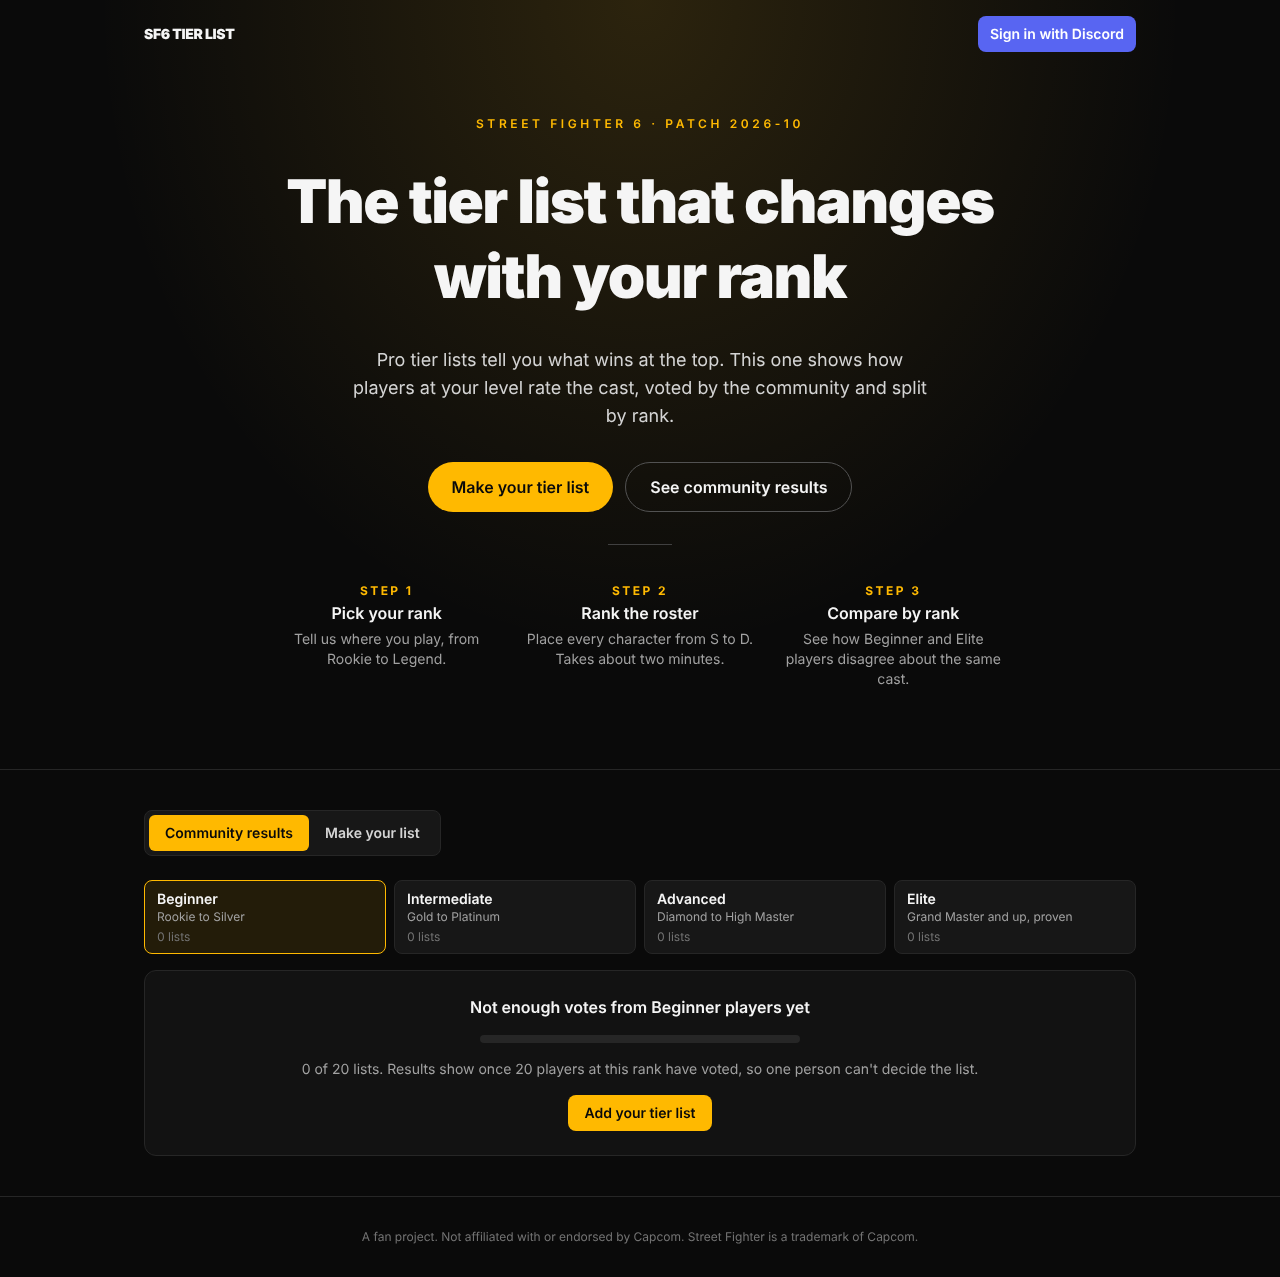
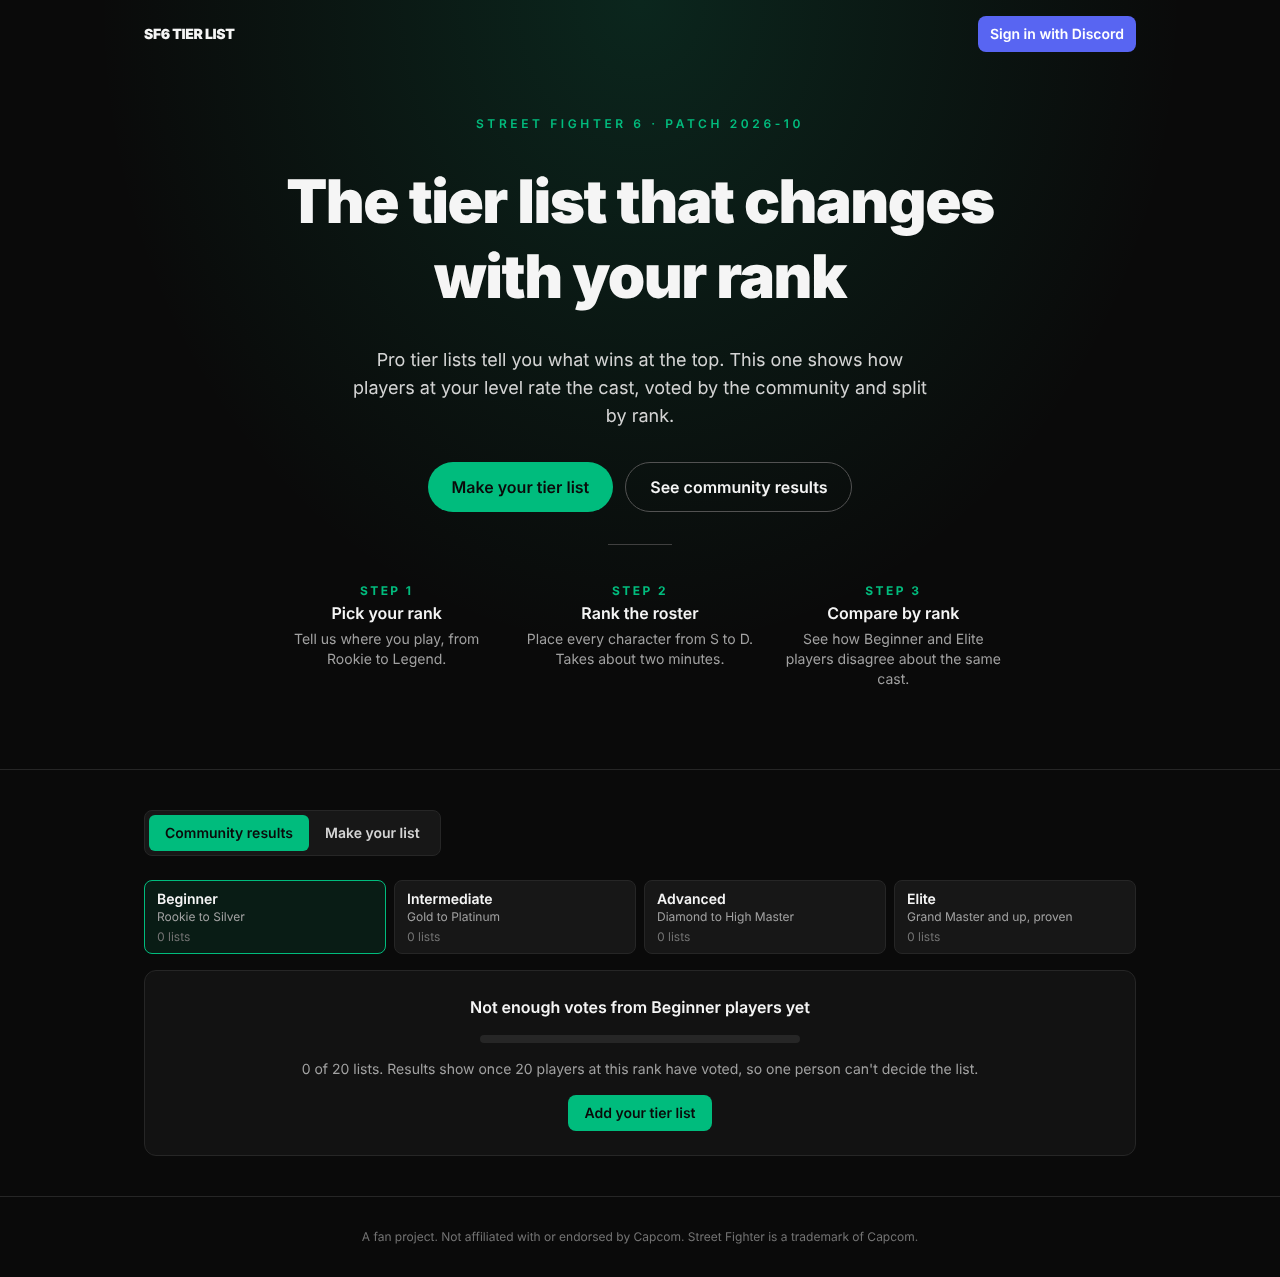
Swap the amber accent for green
Buttons, active tab, selected band card, header glow, step labels,
selected roster tile and the demo banner now use emerald instead of
amber. Tier row colours (S-D) are unchanged. Screenshots refreshed.

Claude-Session: https://claude.ai/code/session_01NYnmTa6PCuDxN4Fj5F7sWt

diff --git a/src/app/page.tsx b/src/app/page.tsx
@@ -37,19 +37,19 @@ export default function Home() {
         </p>
       ) : (
         demoMode && (
-          <p className="bg-amber-950 px-4 py-2 text-center text-sm text-amber-300">
+          <p className="bg-emerald-950 px-4 py-2 text-center text-sm text-emerald-300">
             Demo mode: votes are saved in this browser only.
           </p>
         )
       )}
 
-      <header className="border-b border-neutral-800 bg-[radial-gradient(ellipse_at_top,rgba(251,191,36,0.14),transparent_60%)]">
+      <header className="border-b border-neutral-800 bg-[radial-gradient(ellipse_at_top,rgba(16,185,129,0.16),transparent_60%)]">
         <div className="mx-auto flex max-w-5xl items-center justify-between gap-4 px-4 pt-4">
           <span className="text-sm font-black tracking-tight">SF6 TIER LIST</span>
           <AccountBar account={account} />
         </div>
         <div className="mx-auto max-w-3xl space-y-8 px-4 pb-14 pt-12 text-center sm:pb-20 sm:pt-16">
-          <p className="text-xs font-semibold uppercase tracking-[0.3em] text-amber-400">
+          <p className="text-xs font-semibold uppercase tracking-[0.3em] text-emerald-500">
             Street Fighter 6 · Patch {CURRENT_PATCH}
           </p>
           <h1 className="text-4xl font-black leading-tight tracking-tight sm:text-6xl">
@@ -60,7 +60,7 @@ export default function Home() {
             cast, voted by the community and split by rank.
           </p>
           <div className="flex flex-wrap justify-center gap-3">
-            <button onClick={() => open("make")} className="rounded-full bg-amber-400 px-6 py-3 font-semibold text-neutral-950 hover:bg-amber-300">
+            <button onClick={() => open("make")} className="rounded-full bg-emerald-500 px-6 py-3 font-semibold text-neutral-950 hover:bg-emerald-400">
               Make your tier list
             </button>
             <button onClick={() => open("results")} className="rounded-full border border-neutral-600 px-6 py-3 font-semibold hover:border-neutral-400">
@@ -71,7 +71,7 @@ export default function Home() {
           <ol className="grid gap-6 text-left sm:grid-cols-3 sm:text-center">
             {STEPS.map((step, i) => (
               <li key={step.title} className="space-y-1">
-                <span className="text-xs font-bold uppercase tracking-[0.2em] text-amber-400">Step {i + 1}</span>
+                <span className="text-xs font-bold uppercase tracking-[0.2em] text-emerald-500">Step {i + 1}</span>
                 <p className="font-semibold">{step.title}</p>
                 <p className="text-sm text-neutral-400">{step.text}</p>
               </li>
@@ -102,7 +102,7 @@ export default function Home() {
             <button
               key={t}
               onClick={() => setTab(t)}
-              className={`rounded-md px-4 py-2 text-sm font-semibold transition ${tab === t ? "bg-amber-400 text-neutral-950" : "text-neutral-300 hover:text-white"}`}
+              className={`rounded-md px-4 py-2 text-sm font-semibold transition ${tab === t ? "bg-emerald-500 text-neutral-950" : "text-neutral-300 hover:text-white"}`}
             >
               {t === "results" ? "Community results" : "Make your list"}
             </button>

diff --git a/src/components/MakeList.tsx b/src/components/MakeList.tsx
@@ -9,7 +9,7 @@ function Step({ n, title, children }: { n: number; title: string; children: Reac
   return (
     <section className="space-y-3">
       <h3 className="flex items-center gap-2 font-semibold">
-        <span className="flex h-6 w-6 items-center justify-center rounded-full bg-amber-400 text-xs font-bold text-neutral-950">
+        <span className="flex h-6 w-6 items-center justify-center rounded-full bg-emerald-500 text-xs font-bold text-neutral-950">
           {n}
         </span>
         {title}
@@ -83,7 +83,7 @@ export default function MakeList({ onSubmitted }: { onSubmitted: () => void }) {
           <div className="flex items-center justify-between text-sm">
             <span>
               {selected ? (
-                <>Placing <b className="text-amber-300">{nameOf(selected)}</b>. Tap a tier.</>
+                <>Placing <b className="text-emerald-300">{nameOf(selected)}</b>. Tap a tier.</>
               ) : (
                 "All placed. Tap any character to move them."
               )}
@@ -91,7 +91,7 @@ export default function MakeList({ onSubmitted }: { onSubmitted: () => void }) {
             <span className="tabular-nums text-neutral-400">{placedCount}/{CHARACTERS.length}</span>
           </div>
           <div className="h-1.5 overflow-hidden rounded-full bg-neutral-800">
-            <div className="h-full bg-amber-400 transition-all" style={{ width: `${(placedCount / CHARACTERS.length) * 100}%` }} />
+            <div className="h-full bg-emerald-500 transition-all" style={{ width: `${(placedCount / CHARACTERS.length) * 100}%` }} />
           </div>
         </div>
         <TierRows placements={placements} selected={selected} onRowClick={place} onCharacterClick={setSelected} />
@@ -117,7 +117,7 @@ export default function MakeList({ onSubmitted }: { onSubmitted: () => void }) {
         <button
           disabled={!rank || unplaced.length > 0 || saving}
           onClick={submit}
-          className="w-full rounded-lg bg-amber-400 px-5 py-3 font-semibold text-neutral-950 transition hover:bg-amber-300 disabled:cursor-not-allowed disabled:opacity-40 sm:w-auto"
+          className="w-full rounded-lg bg-emerald-500 px-5 py-3 font-semibold text-neutral-950 transition hover:bg-emerald-400 disabled:cursor-not-allowed disabled:opacity-40 sm:w-auto"
         >
           {saving ? "Saving..." : !rank ? "Choose your rank first" : unplaced.length > 0 ? `Place ${unplaced.length} more` : "Submit my tier list"}
         </button>

diff --git a/src/components/Results.tsx b/src/components/Results.tsx
@@ -29,7 +29,7 @@ export default function Results({ refreshKey, onMakeList }: { refreshKey: number
             key={b.id}
             onClick={() => setBand(b.id)}
             className={`rounded-lg border px-3 py-2 text-left transition
-              ${band === b.id ? "border-amber-400 bg-amber-400/10" : "border-neutral-800 bg-neutral-900 hover:border-neutral-600"}`}
+              ${band === b.id ? "border-emerald-500 bg-emerald-500/10" : "border-neutral-800 bg-neutral-900 hover:border-neutral-600"}`}
           >
             <span className="block text-sm font-semibold">{b.label}</span>
             <span className="block text-xs text-neutral-400">{b.ranks}</span>
@@ -44,13 +44,13 @@ export default function Results({ refreshKey, onMakeList }: { refreshKey: number
         <div className="space-y-4 rounded-xl border border-neutral-800 bg-neutral-900/60 p-6 text-center">
           <p className="font-semibold">Not enough votes from {current.label} players yet</p>
           <div className="mx-auto h-2 max-w-xs overflow-hidden rounded-full bg-neutral-800">
-            <div className="h-full bg-amber-400" style={{ width: `${(lists / MIN_LISTS) * 100}%` }} />
+            <div className="h-full bg-emerald-500" style={{ width: `${(lists / MIN_LISTS) * 100}%` }} />
           </div>
           <p className="text-sm text-neutral-400">
             {lists} of {MIN_LISTS} lists. Results show once {MIN_LISTS} {MIN_LISTS === 1 ? "player" : "players"} at this rank have voted, so one
             person can&apos;t decide the list.
           </p>
-          <button onClick={onMakeList} className="rounded-lg bg-amber-400 px-4 py-2 text-sm font-semibold text-neutral-950 hover:bg-amber-300">
+          <button onClick={onMakeList} className="rounded-lg bg-emerald-500 px-4 py-2 text-sm font-semibold text-neutral-950 hover:bg-emerald-400">
             Add your tier list
           </button>
         </div>

diff --git a/src/components/Account.tsx b/src/components/Account.tsx
@@ -44,7 +44,7 @@ export default function AccountBar({ account }: { account: ReturnType<typeof use
       {signedIn ? (
         <div className="flex items-center gap-3">
           {profile && (
-            <Link href={`/u/${profile.username}`} className="font-semibold text-amber-300 hover:underline">
+            <Link href={`/u/${profile.username}`} className="font-semibold text-emerald-300 hover:underline">
               @{profile.username}
             </Link>
           )}
@@ -89,7 +89,7 @@ export function PickUsername({ session, onDone }: { session: Session; onDone: (p
   }
 
   return (
-    <form onSubmit={save} className="space-y-3 rounded-xl border border-amber-400/40 bg-amber-400/5 p-4">
+    <form onSubmit={save} className="space-y-3 rounded-xl border border-emerald-500/40 bg-emerald-500/5 p-4">
       <p className="font-semibold">Pick a username for your public profile</p>
       <p className="text-sm text-neutral-400">
         Your tier lists will be public at /u/{username || "your-name"}, so friends can see how you voted.
@@ -101,7 +101,7 @@ export function PickUsername({ session, onDone }: { session: Session; onDone: (p
           placeholder="username"
           className="w-56 rounded-lg border border-neutral-700 bg-neutral-900 p-2.5"
         />
-        <button className="rounded-lg bg-amber-400 px-4 py-2 font-semibold text-neutral-950 hover:bg-amber-300">Save</button>
+        <button className="rounded-lg bg-emerald-500 px-4 py-2 font-semibold text-neutral-950 hover:bg-emerald-400">Save</button>
       </div>
       {error && <p className="text-sm text-red-400">{error}</p>}
     </form>

diff --git a/src/components/CharacterTile.tsx b/src/components/CharacterTile.tsx
@@ -53,7 +53,7 @@ export default function CharacterTile({ id, selected, detail, onClick }: Props) 
       }}
       disabled={!onClick}
       className={`flex items-center gap-2 rounded-md border bg-neutral-900 py-1 pl-1 pr-2.5 text-sm transition
-        ${selected ? "border-amber-400 ring-2 ring-amber-400/60" : "border-neutral-700"}
+        ${selected ? "border-emerald-500 ring-2 ring-emerald-500/60" : "border-neutral-700"}
         ${onClick ? "hover:border-neutral-500 active:scale-95" : "cursor-default"}`}
     >
       <Portrait id={id} />

diff --git a/src/components/ShareButton.tsx b/src/components/ShareButton.tsx
@@ -20,7 +20,7 @@ export default function ShareButton({ url, title }: { url: string; title: string
   }
 
   return (
-    <button onClick={share} className="rounded-full bg-amber-400 px-5 py-2 text-sm font-semibold text-neutral-950 hover:bg-amber-300">
+    <button onClick={share} className="rounded-full bg-emerald-500 px-5 py-2 text-sm font-semibold text-neutral-950 hover:bg-emerald-400">
       {copied ? "Link copied" : "Share"}
     </button>
   );

diff --git a/src/app/u/[username]/page.tsx b/src/app/u/[username]/page.tsx
@@ -44,7 +44,7 @@ export default function ProfilePage() {
       ) : profile === null ? (
         <div className="space-y-3">
           <h1 className="text-2xl font-bold">No player called @{username}</h1>
-          <Link href="/" className="text-amber-300 underline">Make your own tier list</Link>
+          <Link href="/" className="text-emerald-300 underline">Make your own tier list</Link>
         </div>
       ) : (
         <>

diff --git a/src/app/layout.tsx b/src/app/layout.tsx
@@ -9,7 +9,7 @@ export const metadata: Metadata = {
 export default function RootLayout({ children }: Readonly<{ children: React.ReactNode }>) {
   return (
     <html lang="en">
-      <body className="bg-neutral-950 text-neutral-100 antialiased selection:bg-amber-400/30">{children}</body>
+      <body className="bg-neutral-950 text-neutral-100 antialiased selection:bg-emerald-500/30">{children}</body>
     </html>
   );
 }
